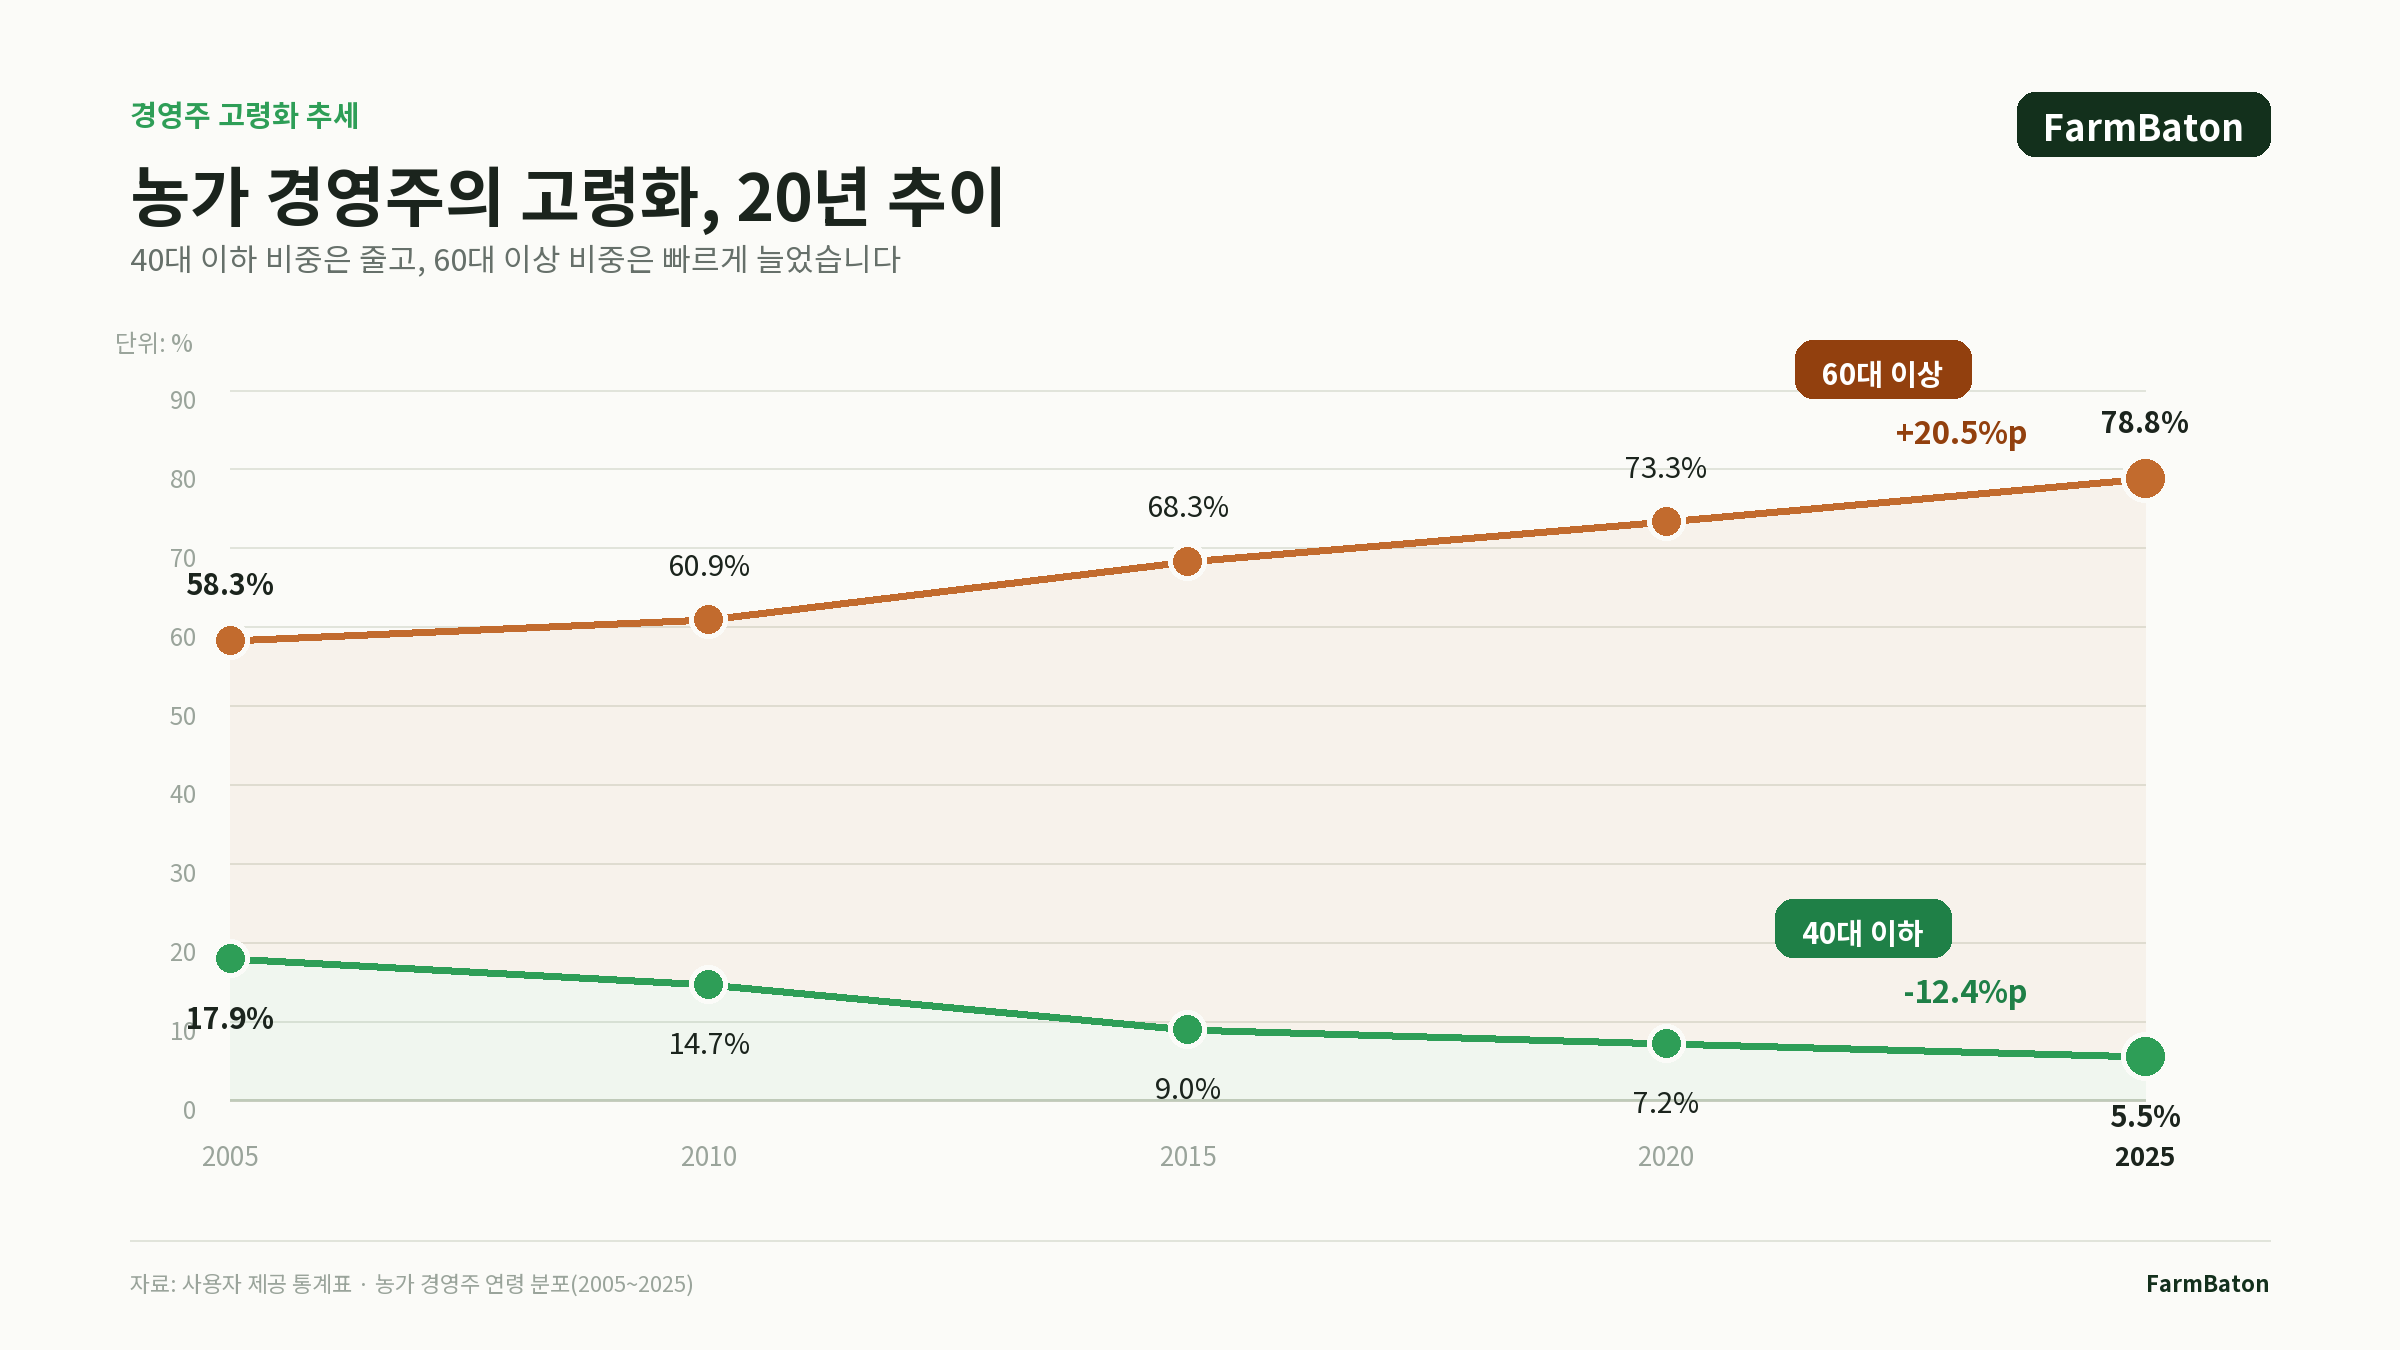
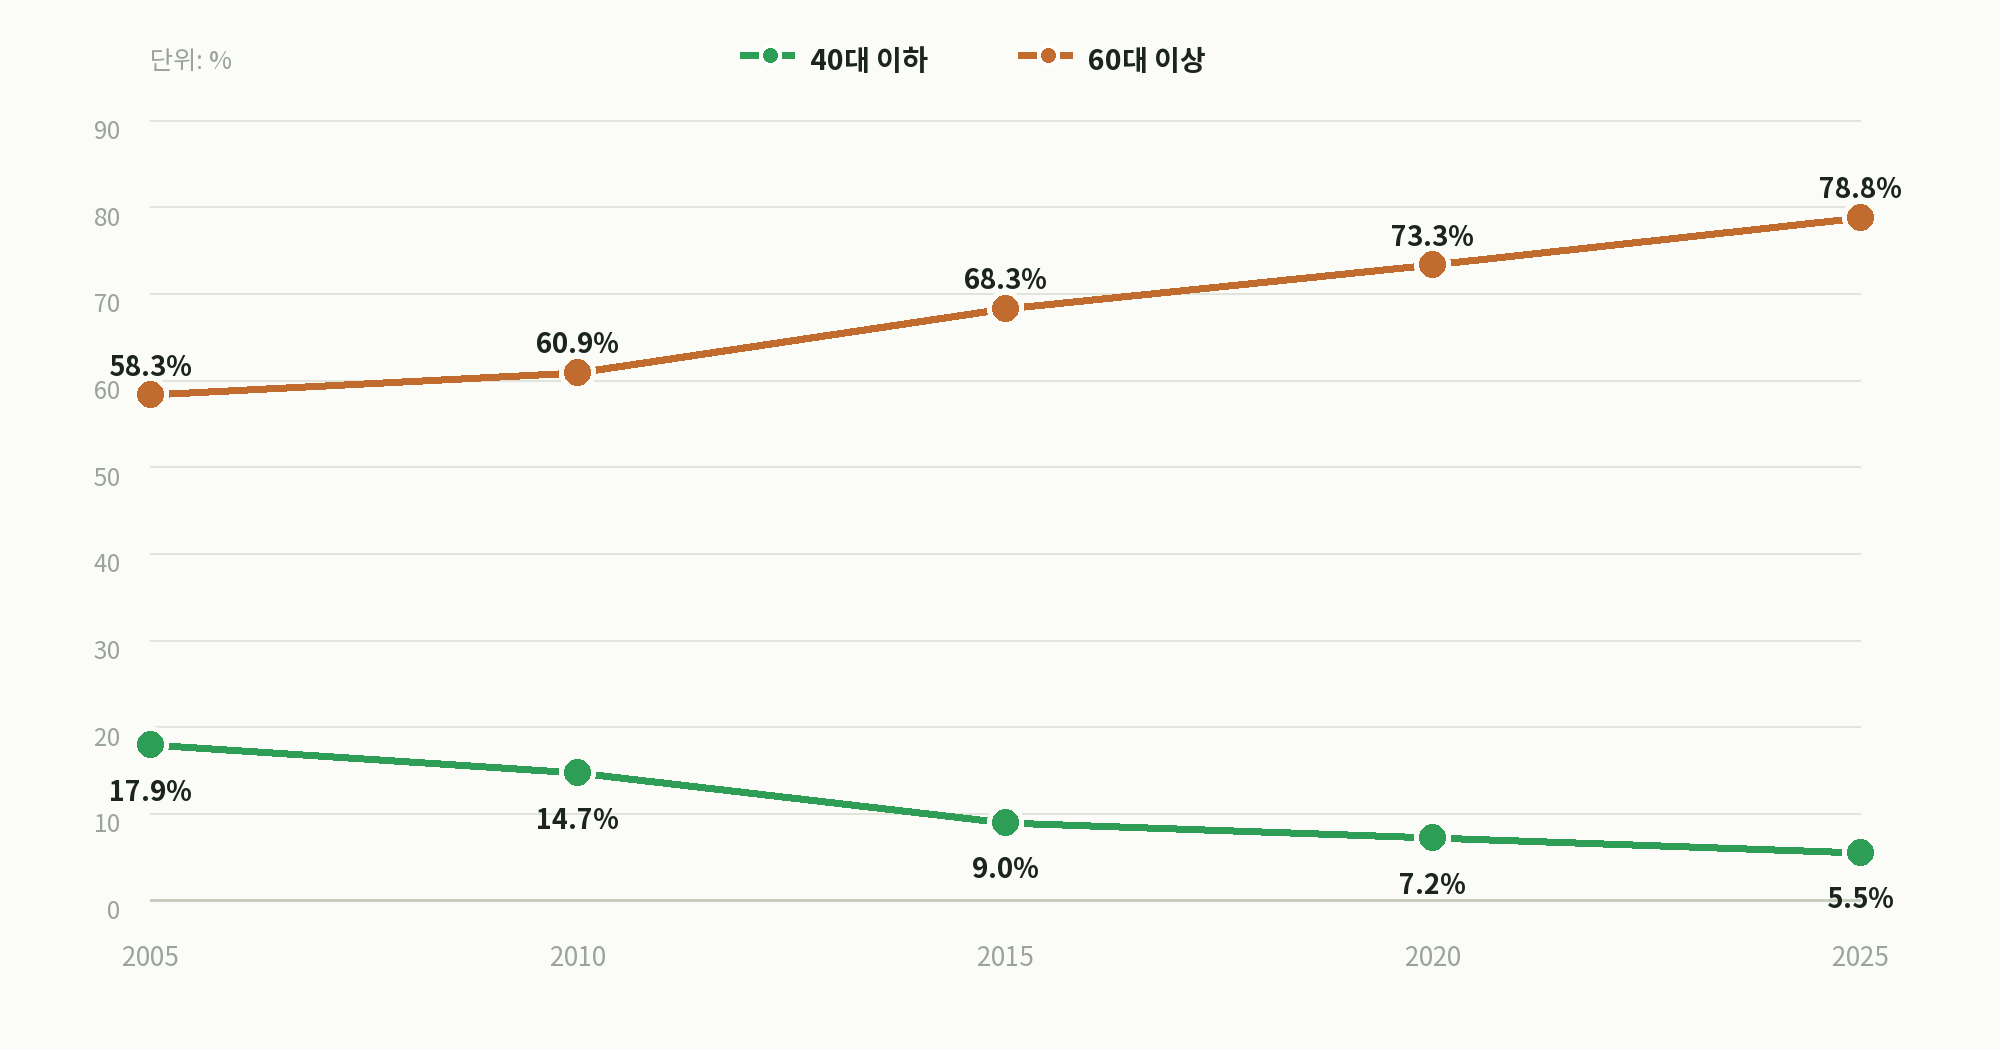
[P4] 경영주 연령 추이 그래프 간소화

diff --git a/scripts/generate_owner_age_trend.py b/scripts/generate_owner_age_trend.py
@@ -8,26 +8,23 @@ OUT = ROOT / "docs" / "slide2_owner_age_distribution_trend.png"
 FONT_REGULAR = ROOT / "backend" / "app" / "static" / "fonts" / "NotoSansKR-Regular.ttf"
 FONT_BOLD = ROOT / "backend" / "app" / "static" / "fonts" / "NotoSansKR-Bold.ttf"
 
-W, H = 2400, 1350
+W, H = 2000, 1050
 YEARS = [2005, 2010, 2015, 2020, 2025]
 UNDER_40 = [17.9, 14.7, 9.0, 7.2, 5.5]
 OVER_60 = [58.3, 60.9, 68.3, 73.3, 78.8]
 
 CANVAS = "#FBFBF8"
 INK = "#1B241D"
-BODY = "#66706A"
 MUTE = "#9AA49B"
 HAIR = "#E1E4DB"
 PRIMARY = "#2E9E57"
-PRIMARY_DEEP = "#1F8047"
 WARN = "#C26B2E"
-WARN_DEEP = "#92400E"
-FOREST = "#13301C"
 WHITE = "#FFFFFF"
 
 
 def font(size: int, bold: bool = False) -> ImageFont.FreeTypeFont:
-    return ImageFont.truetype(str(FONT_BOLD if bold else FONT_REGULAR), size=size)
+    path = FONT_BOLD if bold else FONT_REGULAR
+    return ImageFont.truetype(str(path), size=size)
 
 
 def text_size(draw: ImageDraw.ImageDraw, text: str, face: ImageFont.FreeTypeFont) -> tuple[int, int]:
@@ -35,126 +32,70 @@ def text_size(draw: ImageDraw.ImageDraw, text: str, face: ImageFont.FreeTypeFont
     return box[2] - box[0], box[3] - box[1]
 
 
-def pill(draw: ImageDraw.ImageDraw, xy: tuple[int, int], text: str, color: str) -> None:
-    face = font(29, bold=True)
-    tw, th = text_size(draw, text, face)
-    x, y = xy
-    draw.rounded_rectangle((x, y, x + tw + 54, y + th + 30), radius=18, fill=color)
-    draw.text((x + 27, y + 11), text, font=face, fill=WHITE)
+def draw_legend(draw: ImageDraw.ImageDraw, x: int, y: int, color: str, label: str) -> int:
+    draw.line((x, y + 18, x + 54, y + 18), fill=color, width=7)
+    draw.ellipse((x + 19, y + 7, x + 41, y + 29), fill=color, outline=WHITE, width=4)
+    face = font(28, bold=True)
+    draw.text((x + 70, y), label, font=face, fill=INK)
+    width, _ = text_size(draw, label, face)
+    return 70 + width
 
 
 def main() -> None:
     image = Image.new("RGB", (W, H), CANVAS)
     draw = ImageDraw.Draw(image)
 
-    # Header
-    draw.text((130, 92), "경영주 고령화 추세", font=font(29, bold=True), fill=PRIMARY)
-    draw.text((130, 145), "농가 경영주의 고령화, 20년 추이", font=font(65, bold=True), fill=INK)
-    draw.text(
-        (130, 235),
-        "40대 이하 비중은 줄고, 60대 이상 비중은 빠르게 늘었습니다",
-        font=font(31),
-        fill=BODY,
-    )
-
-    # FarmBaton wordmark treatment, kept understated for PPT use.
-    brand = "FarmBaton"
-    brand_face = font(36, bold=True)
-    bw, _ = text_size(draw, brand, brand_face)
-    draw.rounded_rectangle((W - 130 - bw - 52, 92, W - 130, 156), radius=18, fill=FOREST)
-    draw.text((W - 130 - bw - 26, 99), brand, font=brand_face, fill=WHITE)
-
-    # Plot geometry
-    left, right = 230, 2145
-    top, bottom = 390, 1100
+    left, right = 150, 1860
+    top, bottom = 120, 900
     y_max = 90
     xs = [left + i * (right - left) / (len(YEARS) - 1) for i in range(len(YEARS))]
 
     def y_pos(value: float) -> float:
         return bottom - value / y_max * (bottom - top)
 
-    # Grid and axes
+    draw.text((left, 40), "단위: %", font=font(25), fill=MUTE)
+    first_width = draw_legend(draw, 740, 37, PRIMARY, "40대 이하")
+    draw_legend(draw, 740 + first_width + 90, 37, WARN, "60대 이상")
+
     for tick in range(0, y_max + 1, 10):
         y = y_pos(tick)
         draw.line((left, y, right, y), fill=HAIR, width=2)
-        label = f"{tick}"
-        tw, th = text_size(draw, label, font(24))
-        draw.text((left - 34 - tw, y - th / 2), label, font=font(24), fill=MUTE)
+        label = str(tick)
+        face = font(24)
+        tw, th = text_size(draw, label, face)
+        draw.text((left - 30 - tw, y - th / 2), label, font=face, fill=MUTE)
 
-    draw.text((left - 115, top - 66), "단위: %", font=font(24), fill=MUTE)
     draw.line((left, bottom, right, bottom), fill="#C7CDBF", width=3)
-
     for x, year in zip(xs, YEARS):
         label = str(year)
-        tw, _ = text_size(draw, label, font(26, bold=year == 2025))
-        draw.text((x - tw / 2, bottom + 35), label, font=font(26, bold=year == 2025), fill=INK if year == 2025 else MUTE)
+        face = font(26)
+        tw, _ = text_size(draw, label, face)
+        draw.text((x - tw / 2, bottom + 35), label, font=face, fill=MUTE)
 
-    # Subtle area fills
-    overlay = Image.new("RGBA", image.size, (0, 0, 0, 0))
-    od = ImageDraw.Draw(overlay)
-    over_points = [(xs[i], y_pos(v)) for i, v in enumerate(OVER_60)]
-    under_points = [(xs[i], y_pos(v)) for i, v in enumerate(UNDER_40)]
-    od.polygon(over_points + [(right, bottom), (left, bottom)], fill=(194, 107, 46, 16))
-    od.polygon(under_points + [(right, bottom), (left, bottom)], fill=(46, 158, 87, 14))
-    image = Image.alpha_composite(image.convert("RGBA"), overlay).convert("RGB")
-    draw = ImageDraw.Draw(image)
-
-    # Series lines
+    over_points = [(xs[i], y_pos(value)) for i, value in enumerate(OVER_60)]
+    under_points = [(xs[i], y_pos(value)) for i, value in enumerate(UNDER_40)]
     draw.line(over_points, fill=WARN, width=8, joint="curve")
     draw.line(under_points, fill=PRIMARY, width=8, joint="curve")
 
-    for points, values, color in (
-        (over_points, OVER_60, WARN, ),
-        (under_points, UNDER_40, PRIMARY, ),
+    for points, values, color, labels_above in (
+        (over_points, OVER_60, WARN, True),
+        (under_points, UNDER_40, PRIMARY, False),
     ):
-        for i, ((x, y), value) in enumerate(zip(points, values)):
-            radius = 14 if i < len(points) - 1 else 19
-            draw.ellipse((x - radius - 5, y - radius - 5, x + radius + 5, y + radius + 5), fill=CANVAS)
-            draw.ellipse((x - radius, y - radius, x + radius, y + radius), fill=color)
-            value_text = f"{value:.1f}%"
-            face = font(29, bold=i in (0, len(points) - 1))
-            tw, th = text_size(draw, value_text, face)
-            if values is OVER_60:
-                ty = y - 57 - th
-            else:
-                ty = y + 36
-            draw.text((x - tw / 2, ty), value_text, font=face, fill=INK)
-
-    # Direct labels and deterministic 20-year percentage-point changes.
-    over_change = OVER_60[-1] - OVER_60[0]
-    under_change = UNDER_40[-1] - UNDER_40[0]
-    pill(draw, (right - 350, y_pos(OVER_60[-1]) - 138), "60대 이상", WARN_DEEP)
-    draw.text(
-        (right - 118, y_pos(OVER_60[-1]) - 70),
-        f"+{over_change:.1f}%p",
-        font=font(31, bold=True),
-        fill=WARN_DEEP,
-        anchor="ra",
-    )
-    pill(draw, (right - 370, y_pos(UNDER_40[-1]) - 158), "40대 이하", PRIMARY_DEEP)
-    draw.text(
-        (right - 118, y_pos(UNDER_40[-1]) - 90),
-        f"{under_change:.1f}%p",
-        font=font(31, bold=True),
-        fill=PRIMARY_DEEP,
-        anchor="ra",
-    )
-
-    # Footer/source
-    draw.line((130, 1240, W - 130, 1240), fill=HAIR, width=2)
-    draw.text(
-        (130, 1266),
-        "자료: 사용자 제공 통계표 · 농가 경영주 연령 분포(2005~2025)",
-        font=font(22),
-        fill=MUTE,
-    )
-    draw.text((W - 130, 1266), "FarmBaton", font=font(22, bold=True), fill=FOREST, anchor="ra")
+        for (x, y), value in zip(points, values):
+            draw.ellipse((x - 18, y - 18, x + 18, y + 18), fill=CANVAS)
+            draw.ellipse((x - 13, y - 13, x + 13, y + 13), fill=color)
+            label = f"{value:.1f}%"
+            face = font(27, bold=True)
+            tw, th = text_size(draw, label, face)
+            label_y = y - th - 30 if labels_above else y + 24
+            draw.text((x - tw / 2, label_y), label, font=face, fill=INK)
 
     OUT.parent.mkdir(parents=True, exist_ok=True)
     image.save(OUT, format="PNG", optimize=True, dpi=(180, 180))
     print(OUT)
     print(f"size={image.size}, mode={image.mode}")
-    print(f"over_60_change={over_change:.1f}%p, under_40_change={under_change:.1f}%p")
+    print(f"under_40={UNDER_40}")
+    print(f"over_60={OVER_60}")
 
 
 if __name__ == "__main__":